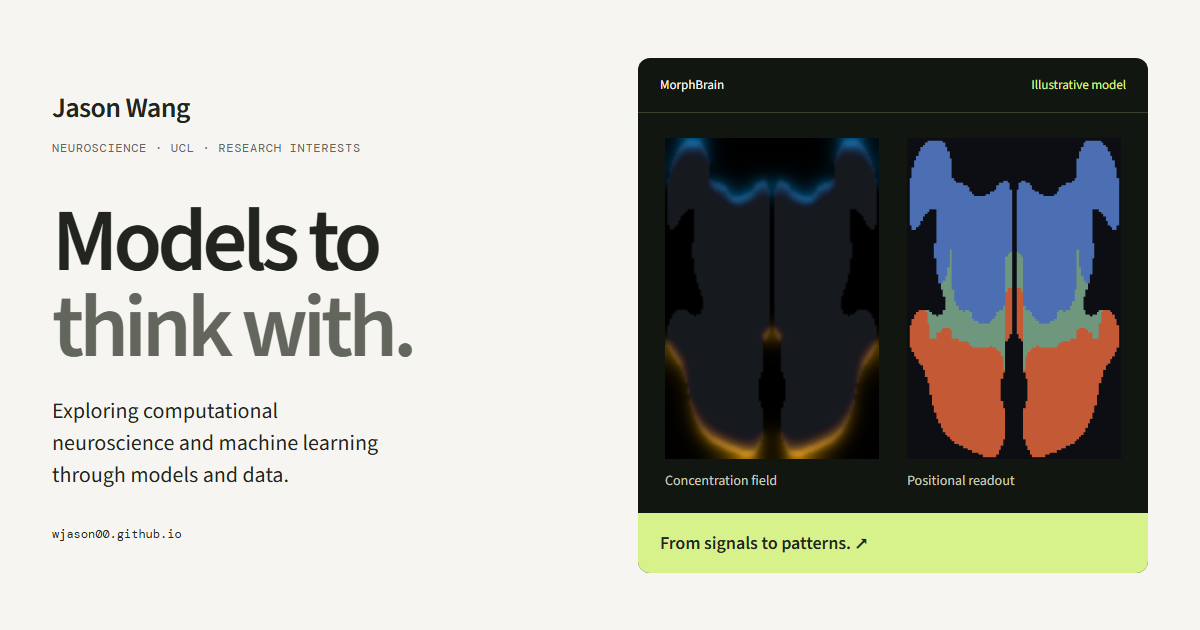
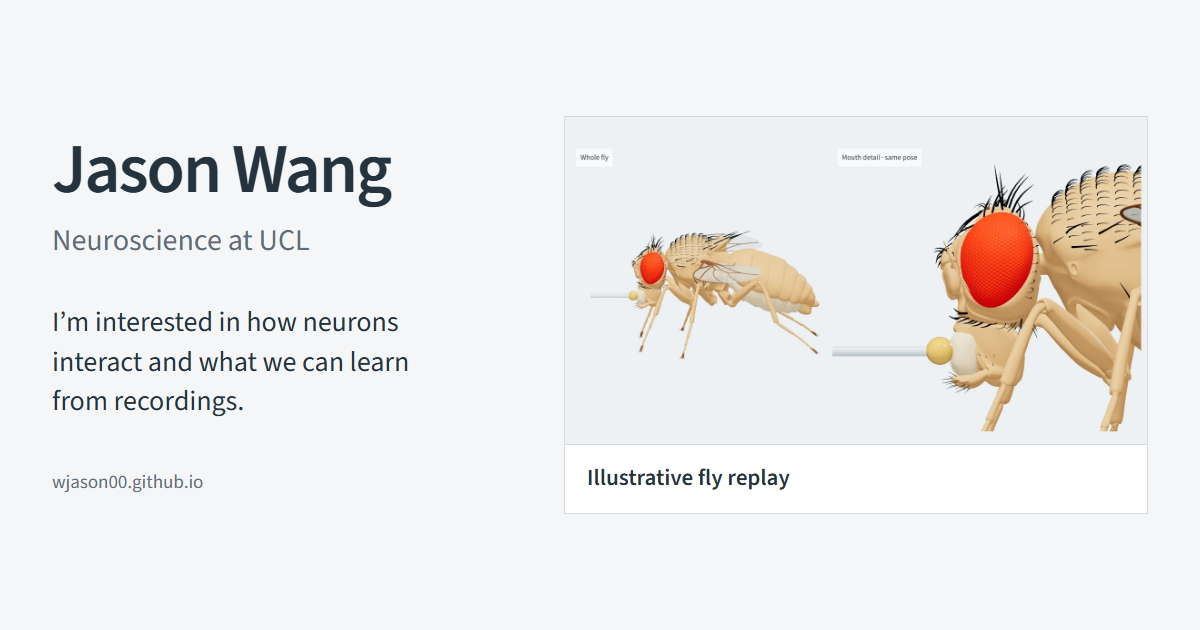
Use personal wording and a factual portfolio title

diff --git a/index.html b/index.html
@@ -5,11 +5,11 @@
     <meta name="viewport" content="width=device-width, initial-scale=1" />
     <meta
       http-equiv="Content-Security-Policy"
-      content="default-src 'self'; base-uri 'self'; object-src 'none'; form-action 'none'; script-src 'self' 'sha256-QtLpCO8vyTpHGKQkxQBv2VtB6q8fg4o3PTS9bhjoPq4='; style-src 'self'; img-src 'self' data:; media-src 'self'; font-src 'self'; frame-src 'self'; connect-src 'none'"
+      content="default-src 'self'; base-uri 'self'; object-src 'none'; form-action 'none'; script-src 'self' 'sha256-FD10dhkTL3jFFuO6RkuK7LBkaHdGxteHUVxc/HJd5Lc='; style-src 'self'; img-src 'self' data:; media-src 'self'; font-src 'self'; frame-src 'self'; connect-src 'none'"
     />
     <meta
       name="description"
-      content="Jason Wang — UCL neuroscience undergraduate interested in computational neuroscience and machine learning. Neural models, statistical methods and software projects."
+      content="Neuroscience undergraduate at UCL, interested in neural circuits, population activity and computational models."
     />
     <meta name="author" content="Jason Wang" />
     <meta
@@ -27,43 +27,43 @@
     <meta property="og:locale" content="en_GB" />
     <meta
       property="og:title"
-      content="Jason Wang — computational neuroscience &amp; machine learning"
+      content="Jason Wang | Neuroscience at UCL"
     />
     <meta
       property="og:description"
-      content="UCL neuroscience undergraduate interested in computational neuroscience and machine learning. Explore neural models, statistical methods and supporting software."
+      content="Neuroscience undergraduate at UCL, interested in neural circuits, population activity and computational models."
     />
     <meta property="og:type" content="website" />
     <meta property="og:url" content="https://wjason00.github.io/" />
     <meta
       property="og:image"
-      content="https://wjason00.github.io/assets/og-portfolio.png"
+      content="https://wjason00.github.io/assets/og-portfolio.png?v=20261020-voice"
     />
     <meta property="og:image:type" content="image/png" />
     <meta property="og:image:width" content="1200" />
     <meta property="og:image:height" content="630" />
     <meta
       property="og:image:alt"
-      content="Jason Wang — neuroscience, models and scientific software"
+      content="Jason Wang, Neuroscience at UCL, with an illustrative 3D fly replay"
     />
     <meta name="twitter:card" content="summary_large_image" />
     <meta
       name="twitter:title"
-      content="Jason Wang — computational neuroscience &amp; machine learning"
+      content="Jason Wang | Neuroscience at UCL"
     />
     <meta
       name="twitter:description"
-      content="UCL neuroscience undergraduate interested in computational neuroscience and machine learning. Explore neural models, statistical methods and supporting software."
+      content="Neuroscience undergraduate at UCL, interested in neural circuits, population activity and computational models."
     />
     <meta
       name="twitter:image"
-      content="https://wjason00.github.io/assets/og-portfolio.png"
+      content="https://wjason00.github.io/assets/og-portfolio.png?v=20261020-voice"
     />
     <meta
       name="twitter:image:alt"
-      content="Jason Wang — neuroscience, models and scientific software"
+      content="Jason Wang, Neuroscience at UCL, with an illustrative 3D fly replay"
     />
-    <title>Jason Wang — Computational Neuroscience &amp; Machine Learning</title>
+    <title>Jason Wang | Neuroscience at UCL</title>
     <link rel="icon" href="./favicon.svg" type="image/svg+xml" />
     <link rel="stylesheet" href="./styles.css?v=20261020-fly-media" />
     <!--
@@ -105,14 +105,14 @@
         "@context": "https://schema.org",
         "@type": "ProfilePage",
         "url": "https://wjason00.github.io/",
-        "name": "Jason Wang — neuroscience and scientific computing",
+        "name": "Jason Wang | Neuroscience at UCL",
         "inLanguage": "en-GB",
         "mainEntity": {
           "@type": "Person",
           "name": "Jason Wang",
           "url": "https://wjason00.github.io/",
           "jobTitle": "Neuroscience undergraduate and research assistant",
-          "description": "UCL neuroscience undergraduate with personal projects in neural patterning, computational modelling and scientific software.",
+          "description": "Neuroscience undergraduate at UCL, interested in neural circuits, population activity and computational models.",
           "knowsAbout": [
             "developmental neuroscience",
             "computational modelling",
@@ -138,7 +138,7 @@
       <div class="site-header__inner">
         <a class="site-name" href="#top"
           >Jason Wang<span class="site-name__detail"
-            >Neuroscience &amp; code</span
+            >Neuroscience at UCL</span
           ></a
         >
         <nav class="site-nav" aria-label="Sections of this page">
@@ -161,8 +161,9 @@
           <p class="intro__context">UCL · Neuroscience undergraduate</p>
           <h1 id="intro-title">Jason Wang</h1>
           <p class="intro__text">
-            I study neuroscience at UCL and build models to explore
-            how neural circuits work and where their predictions break down.
+            I’m interested in how neurons interact to produce patterns of activity,
+            and what we can learn about those interactions from recordings.
+            I use computational models to explore these questions.
           </p>
         </div>
         <div class="intro__links">
@@ -189,7 +190,7 @@
             <p class="research-item__kind">UCL</p>
             <h3>Undergraduate Research Assistant</h3>
             <p>
-              I work under Professor Lorenzo Fabrizi in UCL’s
+              I work with Professor Lorenzo Fabrizi in UCL’s
               <a href="https://www.ucl.ac.uk/life-sciences/mpsl" target="_blank" rel="noreferrer">Medawar Pain and Somatosensory Labs</a>.
               My supervised work focuses on EEG source modelling: relating
               models of brain activity to signals measured at the scalp.
@@ -199,8 +200,8 @@
         <article class="research-feature research-feature--result" id="fly-circuit" aria-labelledby="fly-title">
           <div class="research-feature__copy">
             <p class="eyebrow fly-study-context">Connectome modelling · October 2026</p>
-            <h3 id="fly-title">Does the circuit effect hold?</h3>
-            <p class="fly-study-contribution">I proposed and directed this sensitivity study of a published fly feeding-circuit model.</p>
+            <h3 id="fly-title">What changes when a neuron’s outputs are disconnected?</h3>
+            <p class="fly-study-contribution">I proposed and directed this study of a published fly model, comparing the disconnection at three connection strengths.</p>
             <p class="fly-study-result">In a <strong>127,400-neuron implementation of a published fly model</strong>, setting Roundup’s outgoing weights to zero reduced MN9 spiking in <strong>all 15 paired comparisons</strong>: three connection strengths and five input seeds.</p>
             <p class="fly-study-action"><a href="./demos/fly/?v=20261020-simple">Explore the fly model</a></p>
             <p class="research-result-limit">Exploratory model sensitivity: one circuit intervention, output neuron and input regime, at three selected gains. These simulated spikes do not establish a change in real feeding behaviour.</p>
@@ -394,8 +395,8 @@
               </div>
               <div class="gallery__caption">
                 <div>
-                  <h3>How signals become regions.</h3>
-                  <p>Same saved run · signal fields → regional identities.</p>
+                <h3>SHH and BMP in a patterning model</h3>
+                <p>Signal concentrations and assigned regions from the same saved run.</p>
                 </div>
                 <a
                   class="gallery__action"
@@ -456,8 +457,8 @@
               </div>
               <div class="gallery__caption">
                 <div>
-                  <h3>One shape into another.</h3>
-                  <p>Play or scrub a recording of the Python prototype.</p>
+                  <h3>Interpolating between 3D surfaces</h3>
+                  <p>A recording of the Python prototype.</p>
                 </div>
                 <a
                   class="round-link"
@@ -524,9 +525,9 @@
           </div>
               <div class="gallery__caption">
                 <div>
-                  <h3>From timeline to camera sequence.</h3>
+                  <h3>An animation exported from Morphliner</h3>
                   <p>
-                    Watch the result. Inspect the editor behind it.
+                    The other views show the editor and a separate product render.
                   </p>
                 </div>
                 <a
@@ -563,8 +564,9 @@
           <p class="project__preview-link"><a href="#preview-morphbrain" data-show-project="morphbrain">View the preview</a></p>
           <div class="project__body">
             <p class="project__lede">
-              Move or remove SHH and BMP sources, then see how the model’s
-              dorsal, intermediate and ventral regions change.
+              I developed MorphBrain to explore how SHH and BMP signals affect
+              developmental patterning. You can move or remove the sources and
+              compare the regions assigned by the model.
             </p>
 
             <p class="project-limit">
@@ -655,8 +657,9 @@
           <p class="project__preview-link"><a href="#preview-model-morpher" data-show-project="model-morpher">View the preview</a></p>
           <div class="project__body">
             <p class="project__lede">
-              Two 3D surfaces. No matching vertices. This prototype blends their
-              distance fields, then extracts the shape in between.
+              I developed this prototype to explore transitions between 3D surfaces
+              without matching vertices. It blends their distance fields and
+              extracts an intermediate shape.
             </p>
 
             <p class="project-limit" id="morpher-project-limit">
@@ -700,8 +703,8 @@
           <p class="project__preview-link"><a href="#preview-morphliner" data-show-project="morphliner">View the preview</a></p>
           <div class="project__body">
             <p class="project__lede">
-              Arrange a scene, set camera keyframes and preview the result
-              on a timeline. Export the animation directly from the browser.
+              I’m developing a browser-based 3D animation editor. You can arrange
+              a scene, set camera keyframes and export the animation.
             </p>
 
             <p class="project-limit">
@@ -732,8 +735,7 @@
       <section class="contact" id="about" aria-labelledby="contact-title">
         <div class="wrap contact__inner">
           <div>
-            <p class="eyebrow">Let’s connect</p>
-            <h2 id="contact-title">Get in touch.</h2>
+            <h2 id="contact-title">Contact</h2>
           </div>
           <div class="contact__body">
             <p>
@@ -764,7 +766,7 @@
       </section>
     </main>
     <footer class="site-footer">
-      <p class="site-footer__name">Jason Wang · Neuroscience &amp; code</p>
+      <p class="site-footer__name">Jason Wang</p>
       <nav class="site-footer__links" aria-label="Site information">
         <a href="./third-party-notices.html">Sources &amp; licences</a
         ><a href="#top">Back to top ↑</a>

diff --git a/demos/fly/ux-sheet.html b/demos/fly/ux-sheet.html
@@ -51,6 +51,7 @@
 <p>The homepage helps a visitor choose work to inspect. The explorer helps them inspect a scientific scene and change its settings. Their disclosure controls serve different tasks: use local <strong>Methods &amp; sources</strong> on each software project, and <strong>Advanced</strong> for specialised explorer settings.</p>
 <ul>
 <li>Keep the research question, personal contribution, main result, critical limit and one primary next action visible. For software, keep its purpose, working status and interpretation limit visible. Optional methods must not carry the only explanation of what the project does or what its result means.</li>
+<li>Use Jason’s name and factual academic description rather than an invented slogan. Base public prose on his personally revised writing: first-person interests, concrete questions and plain explanations. Do not copy assistant-written drafts as evidence of his voice, imitate typos or turn project ownership into sole implementation. Keep precise scientific claims and limitations when simplifying the prose.</li>
 <li>Use one shared software preview stage. A project account supplies the concise purpose and primary route; its preview-return link supports returning to the stage. Do not repeat the same question, description or competing launch paths across the gallery, account and call to action.</li>
 <li>Keep one native <code>details</code> disclosure per software project. Consolidate related methods under internal headings, preserving existing deep-link IDs and source/download links. Keyboard access and the method text must work without JavaScript.</li>
 <li>Keep the Fly replay and compact paired-count chart together on desktop, with ordinary video controls and a readable poster. Stack them on phones. The replay must visibly identify its separate archive, uncalibrated movement and assumed relaxation; it must never imply footage of the paired intervention. Keep all 15 paired comparisons and the simulation-to-behaviour limit visible with methods closed. Put the original full figure and longer capture/provenance notes in evidence. Keep the timing and rare-error experiments directly discoverable.</li>

diff --git a/rare-errors.html b/rare-errors.html
@@ -27,8 +27,8 @@
     <meta property="og:title" content="When errors are rare — a synthetic dPCA study" />
     <meta property="og:description" content="A component can be strongly choice-driven yet reconstruct the signal poorly. Explore six saved trial mixes and all five noise seeds." />
     <meta property="og:url" content="https://wjason00.github.io/rare-errors.html" />
-    <meta property="og:image" content="https://wjason00.github.io/assets/og-portfolio.png" />
-    <meta property="og:image:alt" content="Jason Wang — computational neuroscience and machine learning portfolio" />
+    <meta property="og:image" content="https://wjason00.github.io/assets/og-portfolio.png?v=20261020-voice" />
+    <meta property="og:image:alt" content="Jason Wang, Neuroscience at UCL, with an illustrative 3D fly replay" />
     <meta name="twitter:card" content="summary_large_image" />
     <title>When errors are rare — Jason Wang</title>
     <link rel="icon" href="./favicon.svg" type="image/svg+xml" />
@@ -45,7 +45,7 @@
       <div class="site-header__inner">
         <a class="site-name" href="./"
           >Jason Wang<span class="site-name__detail"
-            >Neuroscience &amp; code</span
+            >Neuroscience at UCL</span
           ></a
         >
         <nav class="site-nav" aria-label="Portfolio">
@@ -340,7 +340,7 @@
       </div>
     </main>
     <footer class="site-footer study-footer">
-      <p class="site-footer__name">Jason Wang &middot; Neuroscience &amp; code</p>
+      <p class="site-footer__name">Jason Wang</p>
       <nav class="site-footer__links" aria-label="Site information">
         <a href="./">Back to the portfolio</a>
         <a href="./third-party-notices.html">Sources &amp; licences</a>

diff --git a/licenses/index.html b/licenses/index.html
@@ -25,7 +25,7 @@
 
     <header class="site-header" id="top">
       <div class="site-header__inner">
-        <a class="site-name" href="../">Jason Wang<span class="site-name__detail">Neuroscience &amp; code</span></a>
+        <a class="site-name" href="../">Jason Wang<span class="site-name__detail">Neuroscience at UCL</span></a>
         <nav class="site-nav" aria-label="Portfolio sections">
           <a href="../#experience">Research</a>
           <a href="../#projects">Projects</a>
@@ -60,7 +60,7 @@
     </main>
 
     <footer class="site-footer">
-      <p class="site-footer__name">Jason Wang · Neuroscience &amp; code</p>
+      <p class="site-footer__name">Jason Wang</p>
       <nav class="site-footer__links" aria-label="Site information">
         <a href="../third-party-notices.html">Sources &amp; licences</a>
         <a href="../">Portfolio home</a>

diff --git a/404.html b/404.html
@@ -25,7 +25,7 @@
 
     <header class="site-header" id="top">
       <div class="site-header__inner">
-        <a class="site-name" href="/">Jason Wang<span class="site-name__detail">Neuroscience &amp; code</span></a>
+        <a class="site-name" href="/">Jason Wang<span class="site-name__detail">Neuroscience at UCL</span></a>
         <nav class="site-nav" aria-label="Portfolio sections">
           <a href="/#experience">Research</a>
           <a href="/#projects">Projects</a>
@@ -59,7 +59,7 @@
     </main>
 
     <footer class="site-footer">
-      <p class="site-footer__name">Jason Wang · Neuroscience &amp; code</p>
+      <p class="site-footer__name">Jason Wang</p>
       <nav class="site-footer__links" aria-label="Site information">
         <a href="/third-party-notices.html">Sources &amp; licences</a>
         <a href="/">Portfolio home</a>

diff --git a/third-party-notices.html b/third-party-notices.html
@@ -32,7 +32,7 @@
 
     <header class="site-header" id="top">
       <div class="site-header__inner">
-        <a class="site-name" href="./">Jason Wang<span class="site-name__detail">Neuroscience &amp; code</span></a>
+        <a class="site-name" href="./">Jason Wang<span class="site-name__detail">Neuroscience at UCL</span></a>
         <nav class="site-nav" aria-label="Portfolio sections">
           <a href="./#experience">Research</a>
           <a href="./#projects">Projects</a>
@@ -188,7 +188,7 @@
     </main>
 
     <footer class="site-footer">
-      <p class="site-footer__name">Jason Wang · Neuroscience &amp; code</p>
+      <p class="site-footer__name">Jason Wang</p>
       <nav class="site-footer__links" aria-label="Site information">
         <a href="./licenses/">Licence texts</a>
         <a href="./">Portfolio home</a>

diff --git a/README.md b/README.md
@@ -4,6 +4,23 @@ A static portfolio for computational neuroscience and machine-learning researche
 labs and placement selectors. Research questions, methods and evidence come first;
 geometry and animation tools provide supporting software examples.
 
+## Personal wording — 20 October 2026
+
+The portfolio uses **Jason Wang** with the factual descriptor **Neuroscience at
+UCL**, consistently across the homepage, study, source/licence and recovery
+pages. Page/social metadata and the sharing image use the same identity.
+The introduction follows Jason's personally revised application wording about
+neuron interactions, population activity and inference from recordings. Project
+summaries use direct first-person descriptions supported by the existing
+contribution record; slogan-like captions and the repeated contact invitation
+are removed. Scientific results, limits, media and source runtimes are retained.
+
+The private source manifest and release receipt are in
+`output/portfolio-voice-20261020/`. Personally revised/adopted wording is the
+voice reference; submission alone is not treated as proof of unaided authorship.
+The canonical UX sheet records this editorial rule for future changes.
+The build and 15 affected browser cases passed. Next action: see T-173.
+
 ## Fly film and compact evidence — 20 October 2026
 
 The [Fly project](https://wjason00.github.io/?v=20261020-fly-media#fly-visuals)
